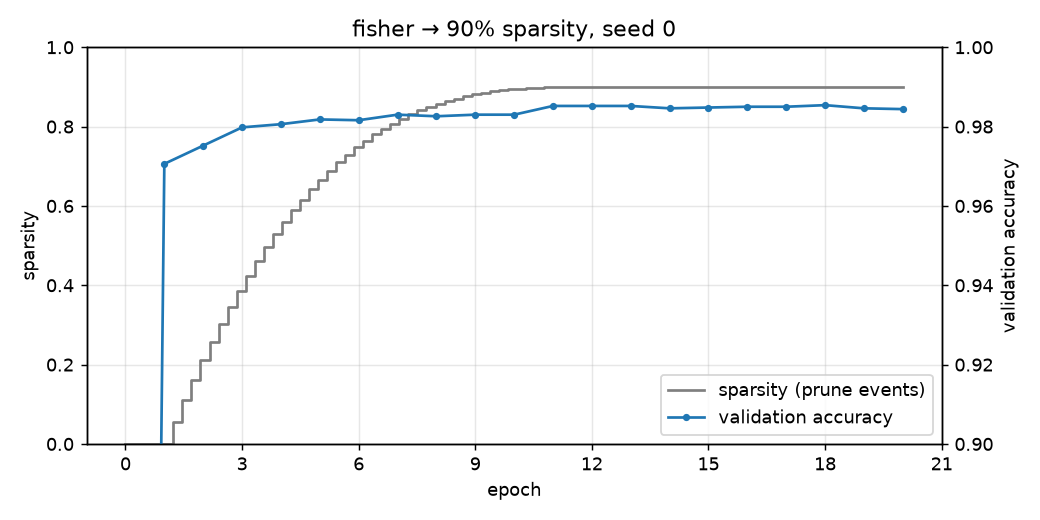
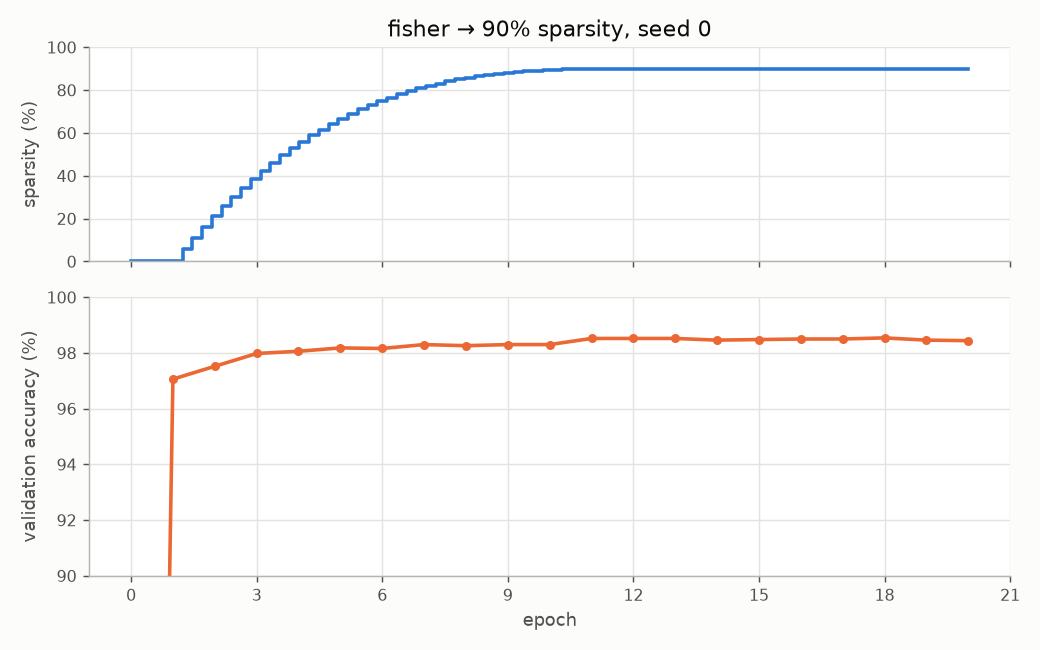
style(plots): validated colour palette, no dual axes, Pareto plot; replot script
Fixed-order categorical colours from a colour-vision-validated palette, gray
only for references, recessive grids. The pruning-run figure used twinx (two
y-scales); it is now two stacked panels on a shared epoch axis. Adds the
Part 4 Pareto/paired-difference figure and scripts/replot.py, which rebuilds
every committed figure from committed CSVs.

diff --git a/budbaereren/train/metrics.py b/budbaereren/train/metrics.py
@@ -8,6 +8,7 @@ from collections.abc import Sequence
 from pathlib import Path
 
 import matplotlib
+import numpy as np
 
 matplotlib.use("Agg")  # headless: plots are files, never windows
 import matplotlib.pyplot as plt  # noqa: E402
@@ -49,66 +50,90 @@ def _parse(v: str):
     return v
 
 
+# ---------------------------------------------------------------------- plot style
+# Categorical slots in fixed order from a colour-vision-validated palette (the first
+# three slots pass all-pairs CVD separation). Gray is reserved for reference lines.
+# Text stays in ink colours; colour carries series identity only. Never a dual axis.
+SERIES = ["#2a78d6", "#eb6834", "#1baf7a"]
+REFERENCE = "#8a8984"
+INK, INK_MUTED = "#0b0b0b", "#52514e"
+
+
+def _style(ax) -> None:
+    ax.grid(color="#e4e3df", linewidth=0.8)
+    ax.set_axisbelow(True)
+    for side in ("top", "right"):
+        ax.spines[side].set_visible(False)
+    for side in ("left", "bottom"):
+        ax.spines[side].set_color("#b5b4ae")
+    ax.tick_params(colors=INK_MUTED, labelsize=9)
+    ax.xaxis.label.set_color(INK_MUTED)
+    ax.yaxis.label.set_color(INK_MUTED)
+    ax.title.set_color(INK)
+
+
+def _save(fig, path: Path) -> None:
+    fig.tight_layout()
+    path.parent.mkdir(parents=True, exist_ok=True)
+    fig.savefig(path, dpi=130, facecolor="#fcfcfb")
+    plt.close(fig)
+
+
 def plot_learning_curve(history: Sequence[dict], path: Path, title: str) -> None:
     epochs = [r["epoch"] for r in history]
     train = [r for r in history if r["epoch"] > 0]
     fig, (ax_loss, ax_acc) = plt.subplots(1, 2, figsize=(10, 3.8))
-    ax_loss.plot([r["epoch"] for r in train], [r["train_loss"] for r in train], label="train")
-    ax_loss.plot(epochs, [r["val_loss"] for r in history], label="validation")
-    ax_loss.set(xlabel="epoch", ylabel="cross-entropy", title="loss", yscale="log")
-    ax_acc.plot([r["epoch"] for r in train], [r["train_acc"] for r in train], label="train")
-    ax_acc.plot(epochs, [r["val_acc"] for r in history], label="validation")
-    ax_acc.set(
-        xlabel="epoch",
-        ylabel="accuracy",
-        title="accuracy",
-        ylim=(max(0.9, min(r["val_acc"] for r in train) - 0.01), 1.0),
-    )
-    for ax in (ax_loss, ax_acc):
-        ax.grid(alpha=0.3)
-        ax.legend()
+    for ax, key, name in (
+        (ax_loss, "loss", "cross-entropy (log scale)"),
+        (ax_acc, "acc", "accuracy"),
+    ):
+        ax.plot(
+            [r["epoch"] for r in train],
+            [r[f"train_{key}"] for r in train],
+            color=SERIES[0],
+            lw=2,
+            label="train",
+        )
+        ax.plot(
+            epochs, [r[f"val_{key}"] for r in history], color=SERIES[1], lw=2, label="validation"
+        )
+        ax.set(xlabel="epoch", ylabel=name)
         ax.xaxis.set_major_locator(MaxNLocator(integer=True))
-    fig.suptitle(title)
-    fig.tight_layout()
-    path.parent.mkdir(parents=True, exist_ok=True)
-    fig.savefig(path, dpi=130)
-    plt.close(fig)
+        _style(ax)
+        ax.legend(frameon=False, fontsize=9)
+    ax_loss.set(yscale="log", title="loss")
+    ax_acc.set(title="accuracy", ylim=(max(0.9, min(r["val_acc"] for r in train) - 0.01), 1.0))
+    fig.suptitle(title, color=INK)
+    _save(fig, path)
 
 
 def plot_pruning_run(history_csv: Path, events_csv: Path, path: Path, title: str) -> None:
-    """Sparsity schedule (prune events) and validation accuracy on a shared epoch axis."""
+    """Sparsity (prune events) and validation accuracy: two panels, shared epoch axis."""
     history = read_csv(history_csv)
     events = read_csv(events_csv) if events_csv.exists() and events_csv.stat().st_size else []
     steps_per_epoch = history[-1]["step"] / history[-1]["epoch"]
-
-    fig, ax_s = plt.subplots(figsize=(8, 4))
+    fig, (ax_s, ax_a) = plt.subplots(
+        2, 1, figsize=(8, 5), sharex=True, gridspec_kw={"height_ratios": [1, 1.3]}
+    )
     if events:
         # Sparsity holds after the last event, so extend the step line to the final epoch.
         ev_epochs = [0.0] + [e["step"] / steps_per_epoch for e in events] + [history[-1]["epoch"]]
-        sparsity = [0.0] + [e["achieved"] for e in events] + [events[-1]["achieved"]]
-        ax_s.step(
-            ev_epochs, sparsity, where="post", color="tab:gray", label="sparsity (prune events)"
-        )
-    ax_s.set(xlabel="epoch", ylabel="sparsity", ylim=(0, 1))
-    ax_a = ax_s.twinx()
+        sparsity = [0.0] + [100 * e["achieved"] for e in events] + [100 * events[-1]["achieved"]]
+        ax_s.step(ev_epochs, sparsity, where="post", color=SERIES[0], lw=2)
+    ax_s.set(ylabel="sparsity (%)", ylim=(0, 100), title=title)
     ax_a.plot(
         [r["epoch"] for r in history],
-        [r["val_acc"] for r in history],
+        [100 * r["val_acc"] for r in history],
         "o-",
-        color="tab:blue",
-        ms=3,
-        label="validation accuracy",
+        color=SERIES[1],
+        lw=2,
+        ms=4,
     )
-    ax_a.set(ylabel="validation accuracy", ylim=(0.9, 1.0))
-    handles = ax_s.get_legend_handles_labels()[0] + ax_a.get_legend_handles_labels()[0]
-    ax_s.legend(handles, [h.get_label() for h in handles], loc="lower right")
-    ax_s.grid(alpha=0.3)
-    ax_s.xaxis.set_major_locator(MaxNLocator(integer=True))
-    ax_s.set_title(title)
-    fig.tight_layout()
-    path.parent.mkdir(parents=True, exist_ok=True)
-    fig.savefig(path, dpi=130)
-    plt.close(fig)
+    ax_a.set(xlabel="epoch", ylabel="validation accuracy (%)", ylim=(90, 100))
+    ax_a.xaxis.set_major_locator(MaxNLocator(integer=True))
+    for ax in (ax_s, ax_a):
+        _style(ax)
+    _save(fig, path)
 
 
 def plot_regrowth(regrowth_csv: Path, path: Path, title: str) -> None:
@@ -116,23 +141,31 @@ def plot_regrowth(regrowth_csv: Path, path: Path, title: str) -> None:
     events = read_csv(regrowth_csv)
     steps = [e["step"] for e in events]
     fig, ax = plt.subplots(figsize=(8, 3.6))
-    ax.plot(steps, [e["fraction"] for e in events], label="scheduled swap fraction α_t")
     ax.plot(
-        steps, [1 - e["jaccard"] for e in events], "o", ms=3, label="measured churn (1 − Jaccard)"
+        steps,
+        [e["fraction"] for e in events],
+        color=SERIES[0],
+        lw=2,
+        label="scheduled swap fraction α_t",
+    )
+    ax.plot(
+        steps,
+        [1 - e["jaccard"] for e in events],
+        "o",
+        color=SERIES[1],
+        ms=4,
+        label="measured churn (1 − Jaccard)",
     )
     ax.set(xlabel="training step", ylabel="fraction of active weights", title=title)
-    ax.grid(alpha=0.3)
-    ax.legend()
-    fig.tight_layout()
-    path.parent.mkdir(parents=True, exist_ok=True)
-    fig.savefig(path, dpi=130)
-    plt.close(fig)
+    _style(ax)
+    ax.legend(frameon=False, fontsize=9)
+    _save(fig, path)
 
 
 PATH_STYLE = {
-    "dense": ("dense ×0 (reference, not a speedup)", "tab:gray", "s"),
-    "csr": ("CSR (hand-written)", "tab:blue", "o"),
-    "compact": ("compacted dense", "tab:orange", "^"),
+    "dense": ("dense ×0 (reference, not a speedup)", REFERENCE, "s"),
+    "csr": ("CSR (hand-written)", SERIES[0], "o"),
+    "compact": ("compacted dense", SERIES[1], "^"),
 }
 
 
@@ -141,9 +174,9 @@ def plot_cost(cost_csv: Path, path: Path) -> None:
     rows = read_csv(cost_csv)
     fig, axes = plt.subplots(1, 3, figsize=(14, 4))
     panels = [
-        ("flops_per_example", "FLOPs per example"),
-        ("latency_b1_us", "latency, batch 1 (µs)"),
-        ("latency_b256_us", "latency, batch 256 (µs)"),
+        ("flops_per_example", "FLOPs per example (log)"),
+        ("latency_b1_us", "latency, batch 1, µs (log)"),
+        ("latency_b256_us", "latency, batch 256, µs (log)"),
     ]
     for ax, (key, label) in zip(axes, panels, strict=True):
         for name, (legend, color, marker) in PATH_STYLE.items():
@@ -152,14 +185,101 @@ def plot_cost(cost_csv: Path, path: Path) -> None:
                 [100 * r["target_sparsity"] for r in pts],
                 [r[key] for r in pts],
                 marker=marker,
+                ms=6,
+                lw=2,
                 color=color,
                 label=legend,
             )
         ax.set(xlabel="sparsity (%)", ylabel=label, yscale="log")
-        ax.grid(alpha=0.3, which="both")
-    axes[0].legend(fontsize=8)
-    fig.suptitle("What pruning saves: analytic work vs measured wall-clock (seed-0 Fisher models)")
-    fig.tight_layout()
-    path.parent.mkdir(parents=True, exist_ok=True)
-    fig.savefig(path, dpi=130)
-    plt.close(fig)
+        _style(ax)
+    axes[0].legend(frameon=False, fontsize=8)
+    fig.suptitle(
+        "What pruning saves: analytic work vs measured wall-clock (seed-0 Fisher models)", color=INK
+    )
+    _save(fig, path)
+
+
+ARM_STYLE = {
+    "magnitude": ("magnitude (baseline)", SERIES[0], "o"),
+    "fisher": ("Fisher (ours)", SERIES[1], "s"),
+    "magnitude+regrow": ("magnitude + Fisher-guided regrowth", SERIES[2], "^"),
+}
+
+
+def _nines(sparsity):
+    """x position -log10(1 - s): spreads 90 / 95 / 98 % apart, where the action is."""
+    return -np.log10(1.0 - np.asarray(sparsity, dtype=float))
+
+
+def plot_pareto(
+    summary: Sequence[dict], comparisons: Sequence[dict], dense: dict, path: Path
+) -> None:
+    """Left: accuracy vs sparsity (mean ± std over seeds). Right: paired difference vs
+    magnitude with 95 % paired-t CI: the "is it real or noise" view."""
+    fig, (ax, ax_d) = plt.subplots(1, 2, figsize=(13, 4.6), gridspec_kw={"width_ratios": [1.25, 1]})
+    levels = sorted({r["target_sparsity"] for r in summary})
+    ticks = [0.0] + levels
+    ax.axhline(100 * dense["mean"], color=REFERENCE, lw=1.5, ls="--")
+    ax.text(
+        _nines(0.0) + 0.02,
+        100 * dense["mean"] + 0.03,
+        f"dense {100 * dense['mean']:.2f} %",
+        color=INK_MUTED,
+        fontsize=8,
+    )
+    offsets = {"magnitude": -0.012, "fisher": 0.0, "magnitude+regrow": 0.012}
+    for arm, (label, color, marker) in ARM_STYLE.items():
+        pts = sorted((r for r in summary if r["arm"] == arm), key=lambda r: r["target_sparsity"])
+        x = _nines([r["target_sparsity"] for r in pts]) + offsets[arm]
+        ax.errorbar(
+            x,
+            [100 * r["mean"] for r in pts],
+            yerr=[100 * r["std"] for r in pts],
+            color=color,
+            marker=marker,
+            ms=6,
+            lw=2,
+            capsize=3,
+            label=label,
+        )
+    ax.set_xticks(_nines(ticks), [f"{100 * t:g}" for t in ticks])
+    ax.set(
+        xlabel="sparsity (%), spacing ∝ −log₁₀(1 − s)",
+        ylabel="test accuracy (%)",
+        title="Accuracy vs sparsity (mean ± std, 5 seeds)",
+    )
+    _style(ax)
+    ax.legend(frameon=False, fontsize=8, loc="lower left")
+
+    ax_d.axhline(0.0, color=REFERENCE, lw=1.5)
+    for arm in ("fisher", "magnitude+regrow"):
+        label, color, marker = ARM_STYLE[arm]
+        pts = sorted(
+            (c for c in comparisons if c["arm"] == arm and c["baseline"] == "magnitude"),
+            key=lambda c: c["target_sparsity"],
+        )
+        x = _nines([c["target_sparsity"] for c in pts]) + offsets[arm]
+        y = np.array([100 * c["mean_diff"] for c in pts])
+        lo = y - np.array([100 * c["ci_low"] for c in pts])
+        hi = np.array([100 * c["ci_high"] for c in pts]) - y
+        ax_d.errorbar(
+            x,
+            y,
+            yerr=[lo, hi],
+            color=color,
+            marker=marker,
+            ms=6,
+            lw=0,
+            elinewidth=2,
+            capsize=4,
+            label=f"{label} − magnitude",
+        )
+    ax_d.set_xticks(_nines(levels), [f"{100 * t:g}" for t in levels])
+    ax_d.set(
+        xlabel="sparsity (%)",
+        ylabel="paired difference (percentage points)",
+        title="Difference vs magnitude, 95 % paired-t CI",
+    )
+    _style(ax_d)
+    ax_d.legend(frameon=False, fontsize=8)
+    _save(fig, path)

diff --git a/scripts/replot.py b/scripts/replot.py
@@ -1,0 +1,53 @@
+"""Regenerate every committed figure from the committed CSVs (no training).
+
+Usage:  uv run python scripts/replot.py
+"""
+
+from __future__ import annotations
+
+import json
+from pathlib import Path
+
+from budbaereren.train.metrics import (
+    plot_cost,
+    plot_learning_curve,
+    plot_pruning_run,
+    plot_regrowth,
+    read_csv,
+)
+
+ROOT = Path(__file__).resolve().parents[1]
+RESULTS = ROOT / "results"
+
+
+def main() -> None:
+    part2 = RESULTS / "part2"
+    if (part2 / "history.csv").exists():
+        cfg = json.loads((part2 / "summary.json").read_text())["config"]
+        plot_learning_curve(
+            read_csv(part2 / "history.csv"),
+            part2 / "learning_curve.png",
+            f"Dense MLP(784-300-100-10), Adam lr={cfg['lr']} (cosine), seed {cfg['seed']}",
+        )
+    for run_dir in sorted(d for d in (RESULTS / "part3").glob("*_s*") if d.is_dir()):
+        cfg = json.loads((run_dir / "summary.json").read_text())["config"]
+        title = (
+            f"{cfg['criterion']} → {cfg['target_sparsity']:.0%} sparsity, seed {cfg['seed']}"
+            + (", with regrowth" if cfg.get("regrow_fraction") else "")
+        )
+        plot_pruning_run(
+            run_dir / "history.csv", run_dir / "events.csv", run_dir / "pruning.png", title
+        )
+        if (run_dir / "regrowth.csv").exists():
+            plot_regrowth(
+                run_dir / "regrowth.csv",
+                run_dir / "regrowth.png",
+                f"regrowth churn, {cfg['criterion']} → {cfg['target_sparsity']:.0%}",
+            )
+    if (RESULTS / "part4" / "cost.csv").exists():
+        plot_cost(RESULTS / "part4" / "cost.csv", RESULTS / "part4" / "cost.png")
+    print("figures regenerated")
+
+
+if __name__ == "__main__":
+    main()
